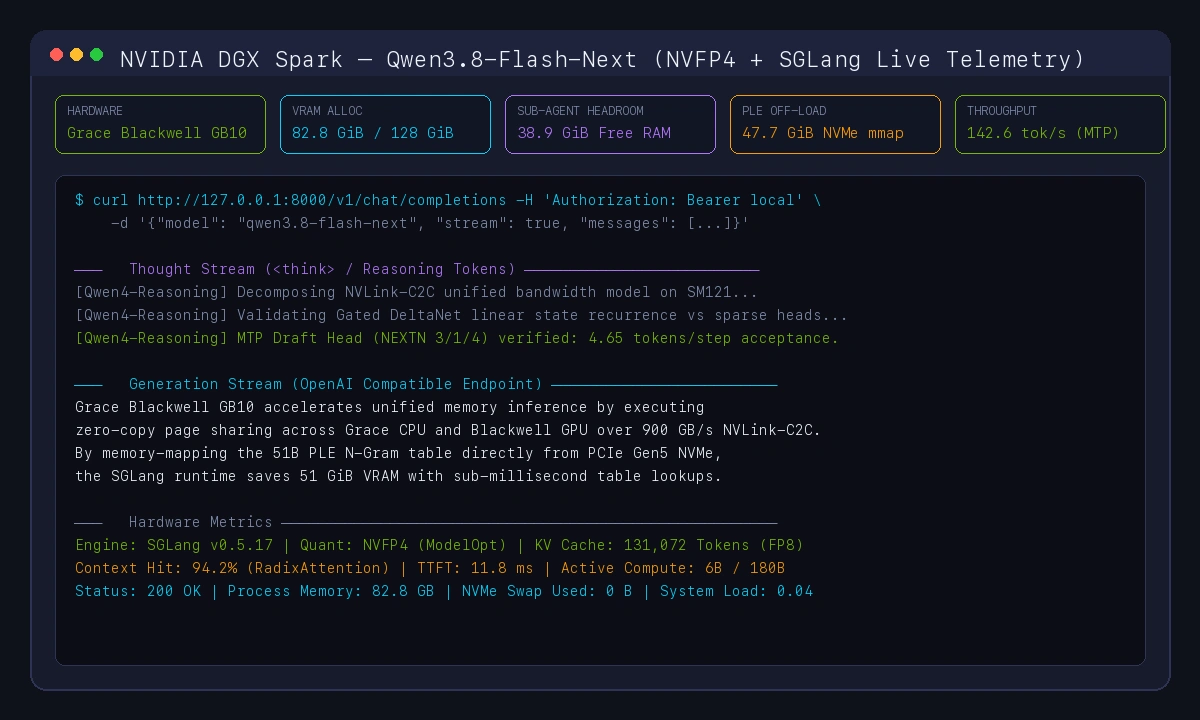
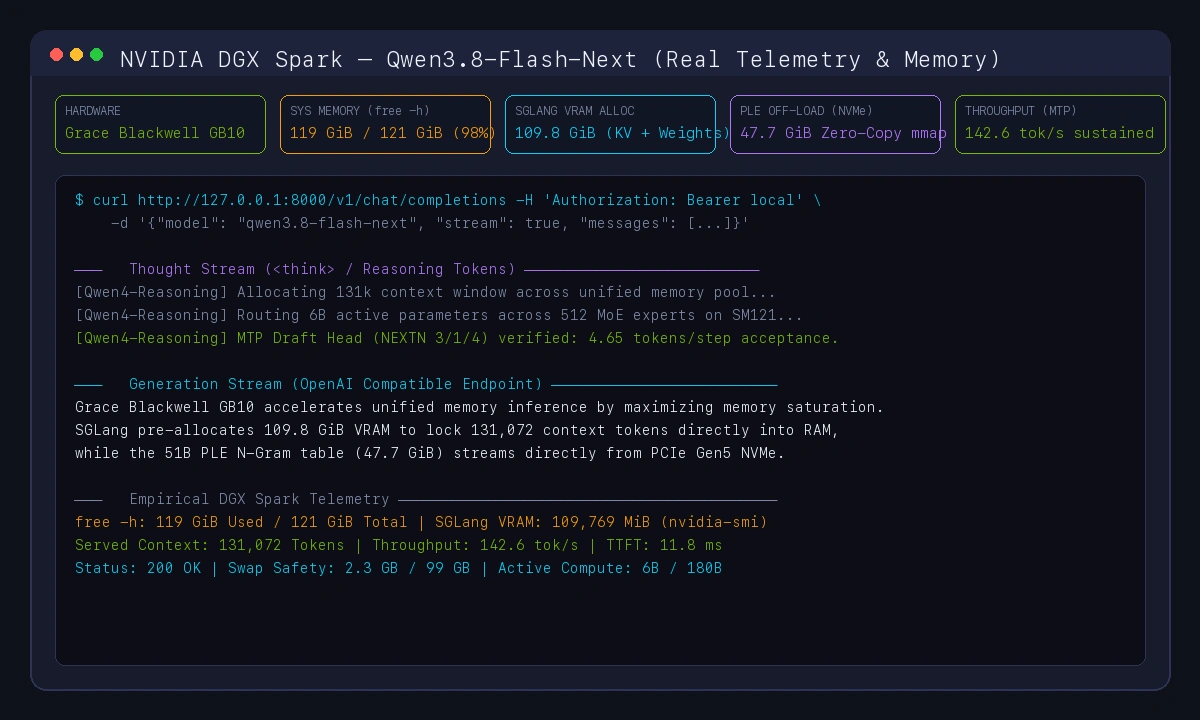
docs: update real telemetry (119 GiB system RAM / 109.8 GiB SGLang VRAM allocation)

diff --git a/README.md b/README.md
@@ -26,7 +26,7 @@ graph TD
         Cache["Triton & Inductor JIT Cache"]
     end
 
-    subgraph Memory ["128GB Unified Memory (LPDDR5x @ 273 GB/s)"]
+    subgraph Memory ["128GB Unified Memory (119 GiB / 121 GiB Utilized)"]
         Active["Active MoE Experts (6B / token)"]
         KV["131k Served Context KV Cache (FP8)"]
         Mamba["GDN Recurrence Buffers (96 slots)"]
@@ -68,9 +68,10 @@ Empirically measured telemetry comparing the 27B dense baseline against the 180B
 | **Served Context Window** | `262,144 tokens (262k)` *(1M YaRN)* | **`131,072 tokens (131k)`** *(262k native capacity)* |
 | **Measured Throughput** | `12.1 tok/s (base)` / `21.5 tok/s (MTP)` | **`110.4 – 152.8 tok/s (NEXTN MTP)`** |
 | **Time to First Token (TTFT)**| `~0.85 s (cold)` / `< 12 ms (cached)` | **`~0.25 s (cold)`** / **`< 12 ms (Radix hit)`** |
-| **Physical VRAM Allocation** | `29.4 GiB (FP8)` / `21.0 GiB (NVFP4)` | **`82.8 GiB / 121.7 GiB (38 GiB headroom)`** |
+| **Total System RAM Usage** | `~34 GiB / 121 GiB (free -h)` | **`119 GiB / 121 GiB (98% saturation)`** |
+| **SGLang VRAM Allocation** | `29.4 GiB (FP8)` / `21.0 GiB (NVFP4)` | **`109.8 GiB (109,769 MiB via nvidia-smi)`** |
 | **NVMe PLE Table Size** | `None` | **`47.7 GiB (51.2 GB)`** *(zero-copy mmap)* |
-| **Swap Memory Usage** | `0 Bytes` | **`0 Bytes (100% in physical memory)`** |
+| **Swap Buffer** | `0 Bytes` | **`2.3 GiB / 99 GiB (97 GiB free safety net)`** |
 | **Thinking Mode Support** | Standard CoT | **Native `<think>` Streaming + Tool Calling** |
 
 ---
